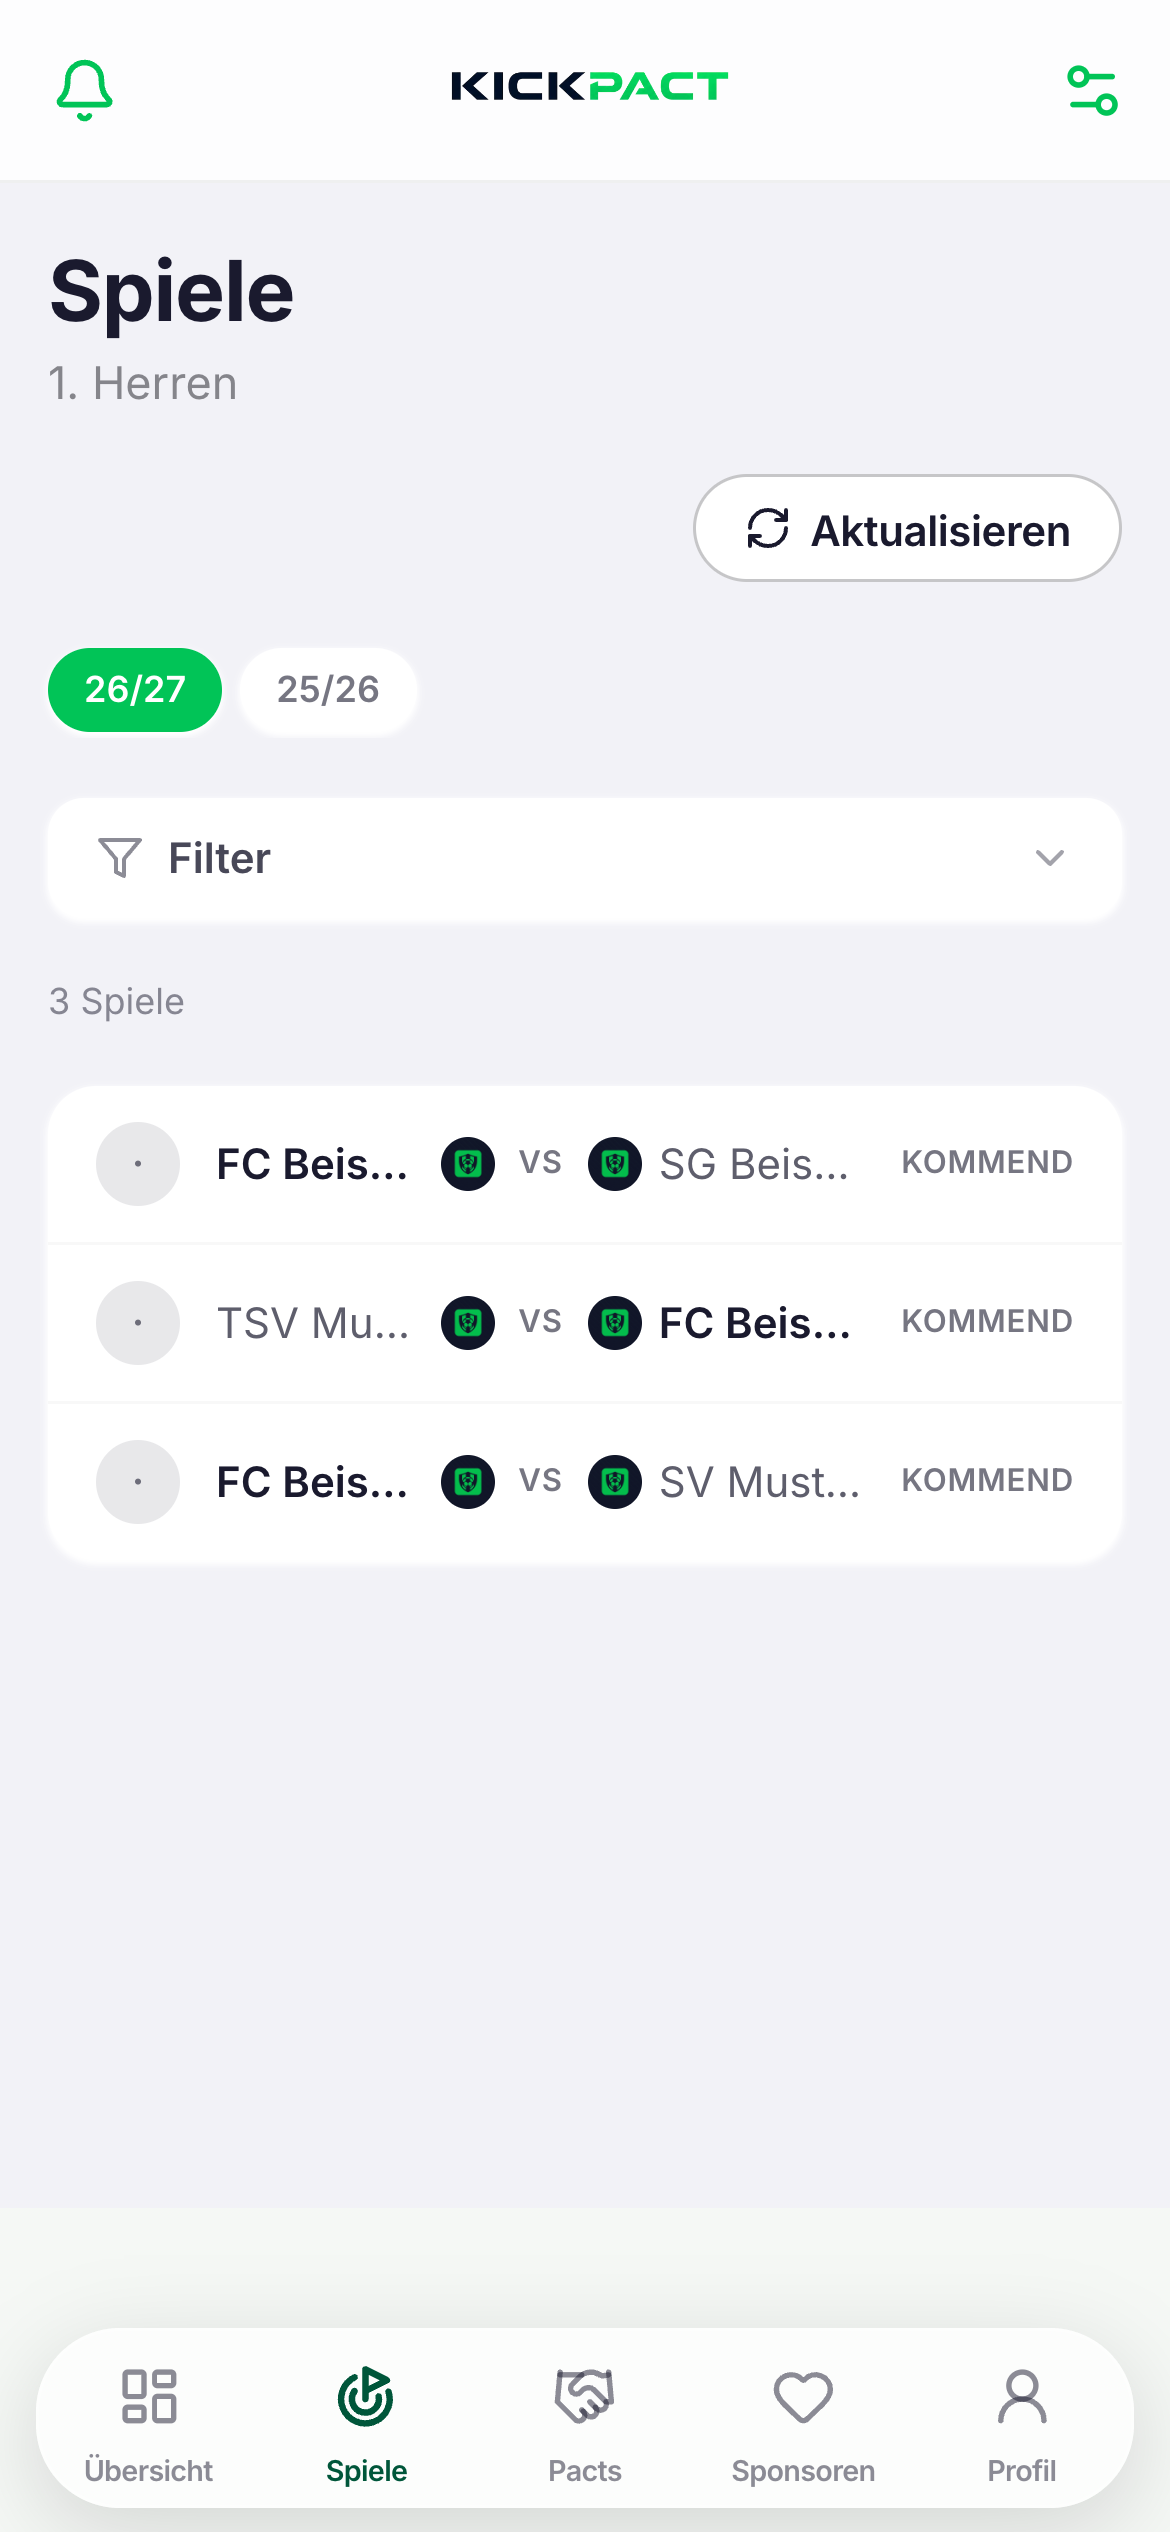
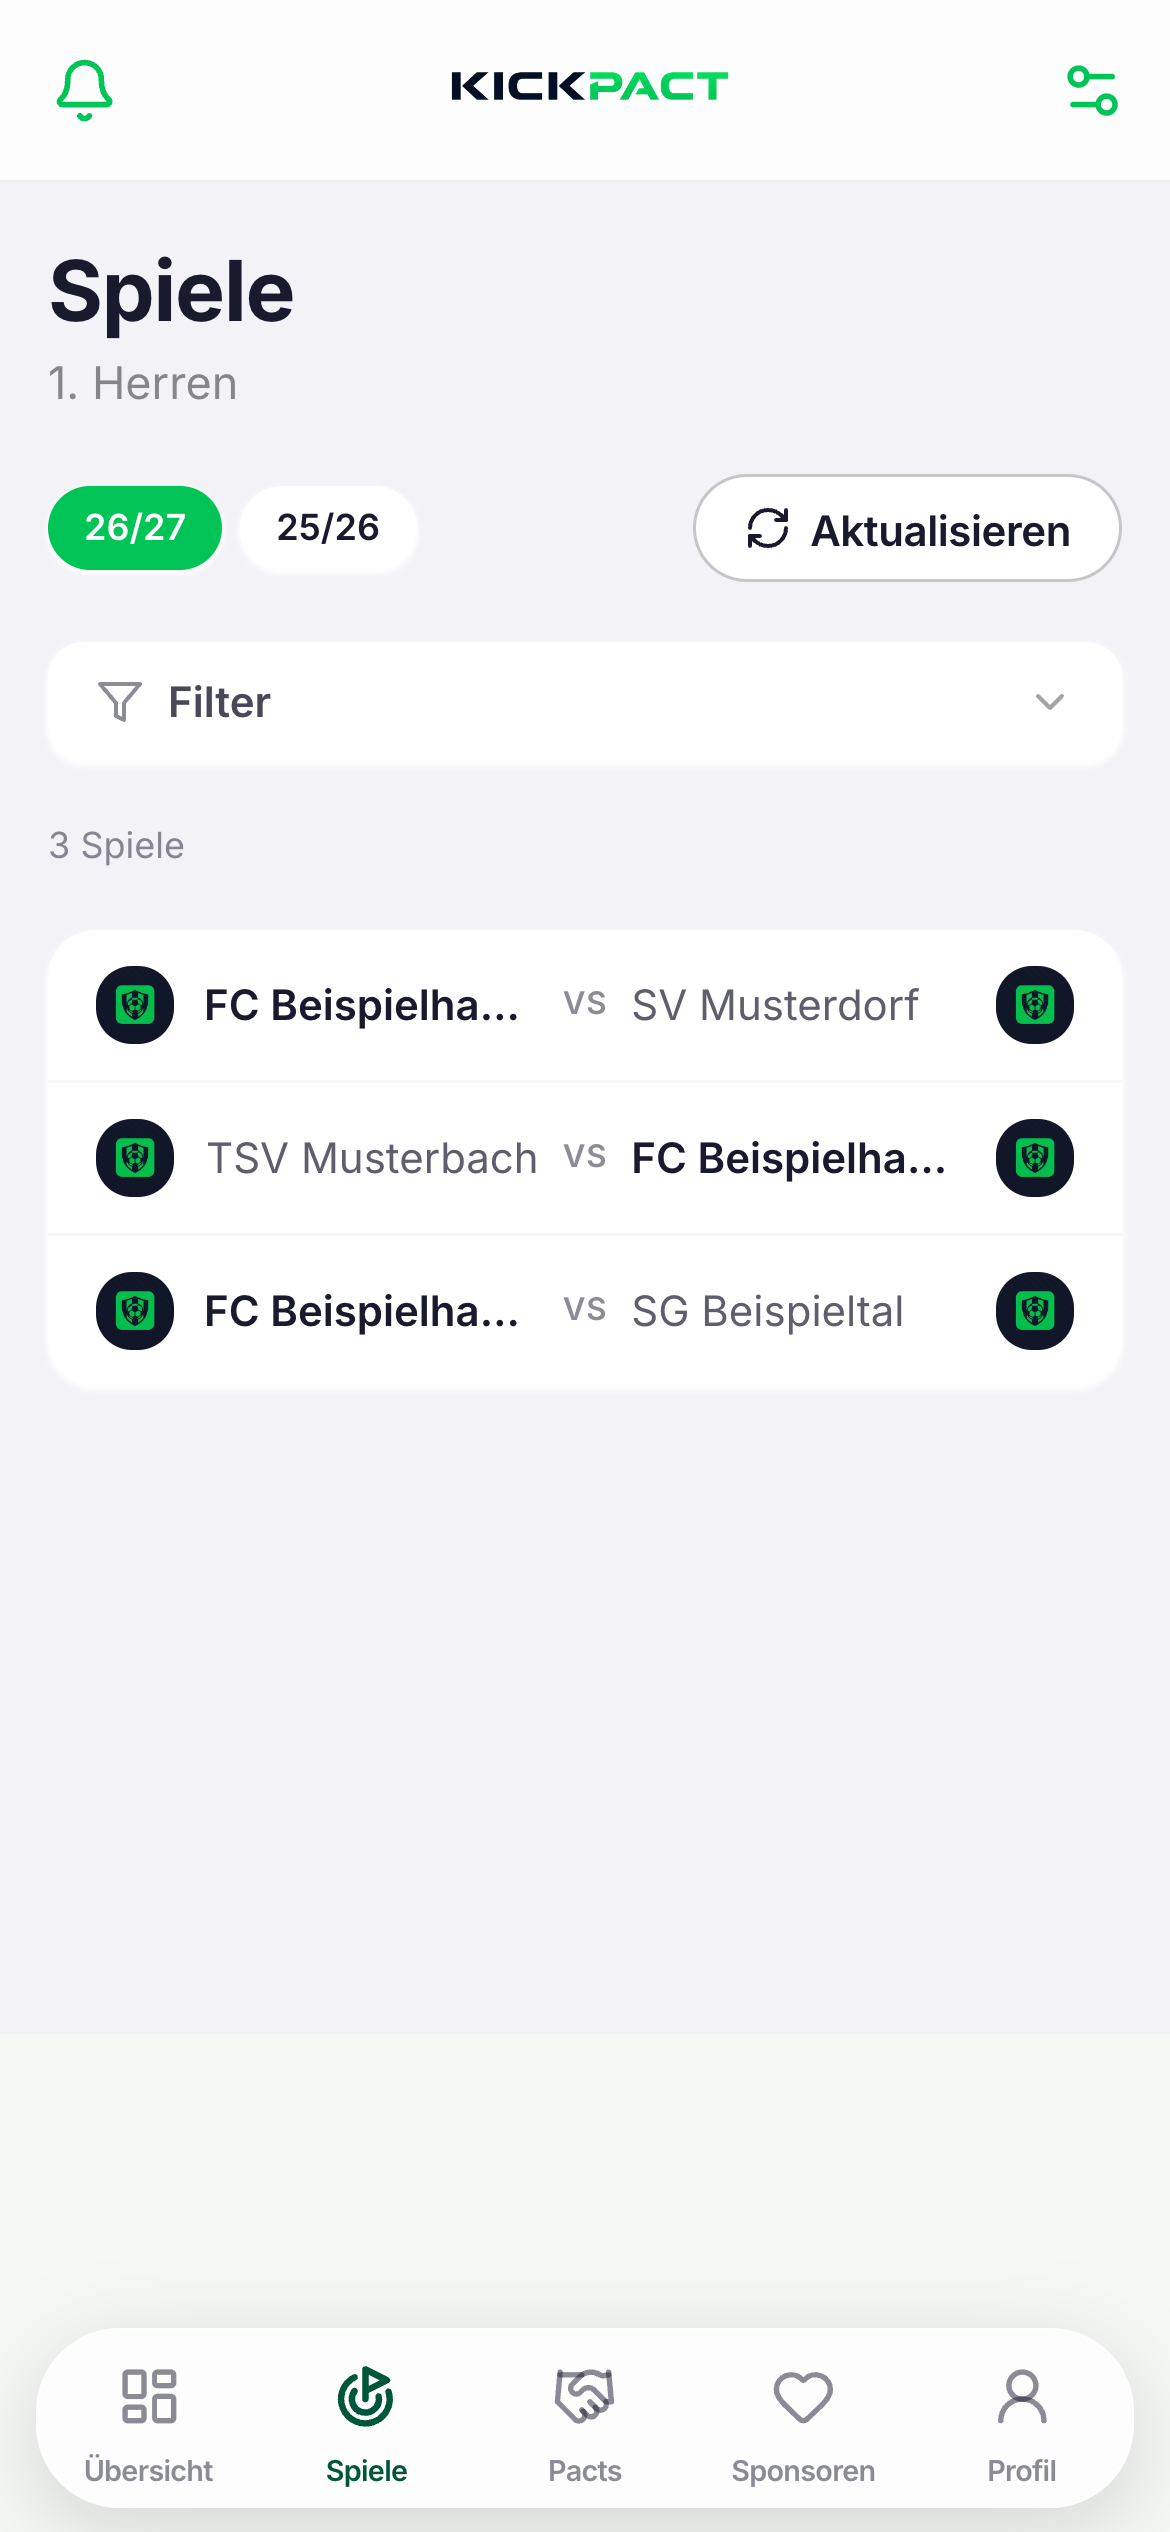
feat(social): Spiel-Motiv mit echten Vereinswappen (Dossenheim + Gegner)
Story-Motiv des „Spiel ankündigen"-Posts nutzt jetzt Dossenheim Herren 3 mit
echten fussball.de-Wappen auf BEIDEN Seiten (per ?brand=0 ohne presented-by).
Möglich durch den Crest-Fix (0e6fa841: Gegner-Namens-Matching mit Reserve-Suffix)
+ Wiederherstellung von Dossenheims echtem Wappen im R2 (der 762-B-Orange-
Platzhalter-Upload war das Problem, nicht ein fehlendes Wappen).

diff --git a/scripts/social/capture.ts b/scripts/social/capture.ts
@@ -43,6 +43,9 @@ const SPONSOR_EMAIL = "klaus.berger@kickpact.example";
  * eigener Verein (Login unten = sein Admin-Account), also keine fremden Daten.
  * Die App-UI-Screenshots (Dashboard/Spiele/Sponsor) bleiben der fiktive Demo.
  */
+// Herren 3: hat ein echtes hochgeladenes Wappen (das blaue „100 Jahre"-Wappen).
+// Ein früherer Capture zeigte einen orangen Kasten — das war ein Timing-Glitch
+// (Wappen frisch hochgeladen/noch nicht durchgerendert), kein fehlendes Logo.
 const STORY_MOTIF_TEAM_PATH =
   "/verein/fc-sportfr-dossenheim-uq0c/mannschaft/x6sei99gf3p4sgh77tvjhlwm";
 const STORY_MOTIF_TEAM_ID = "x6sei99gf3p4sgh77tvjhlwm";
